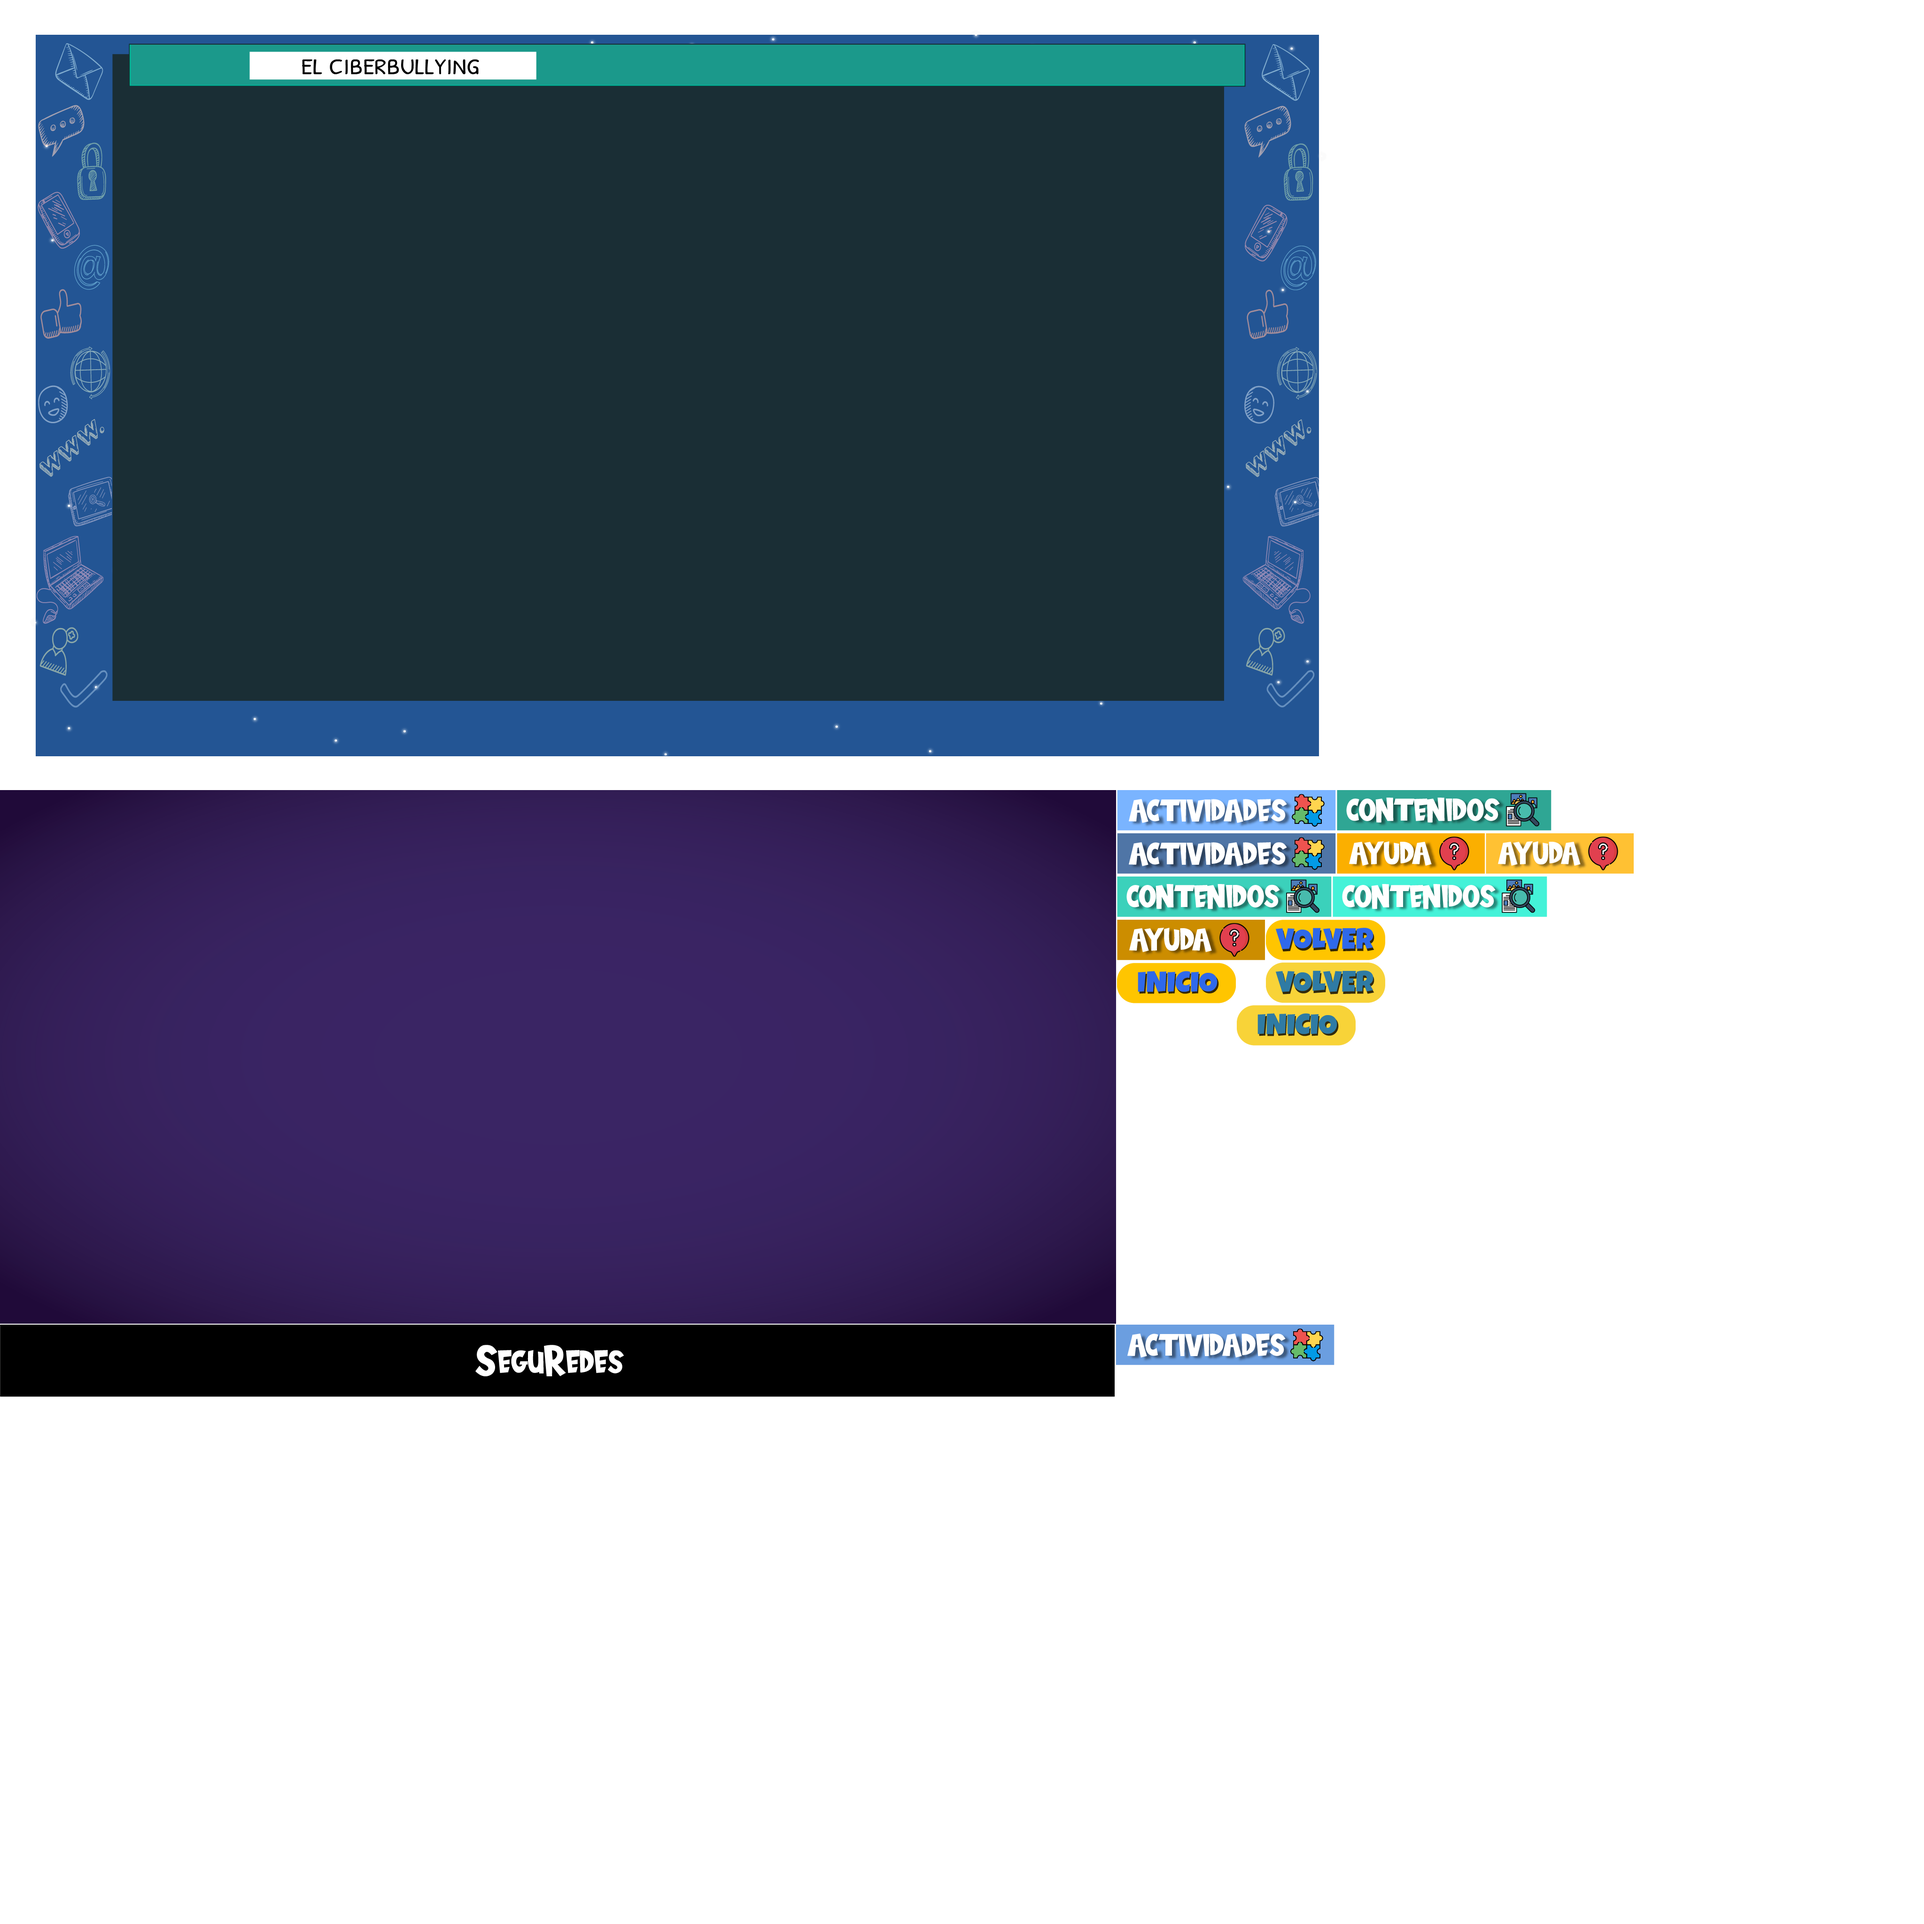
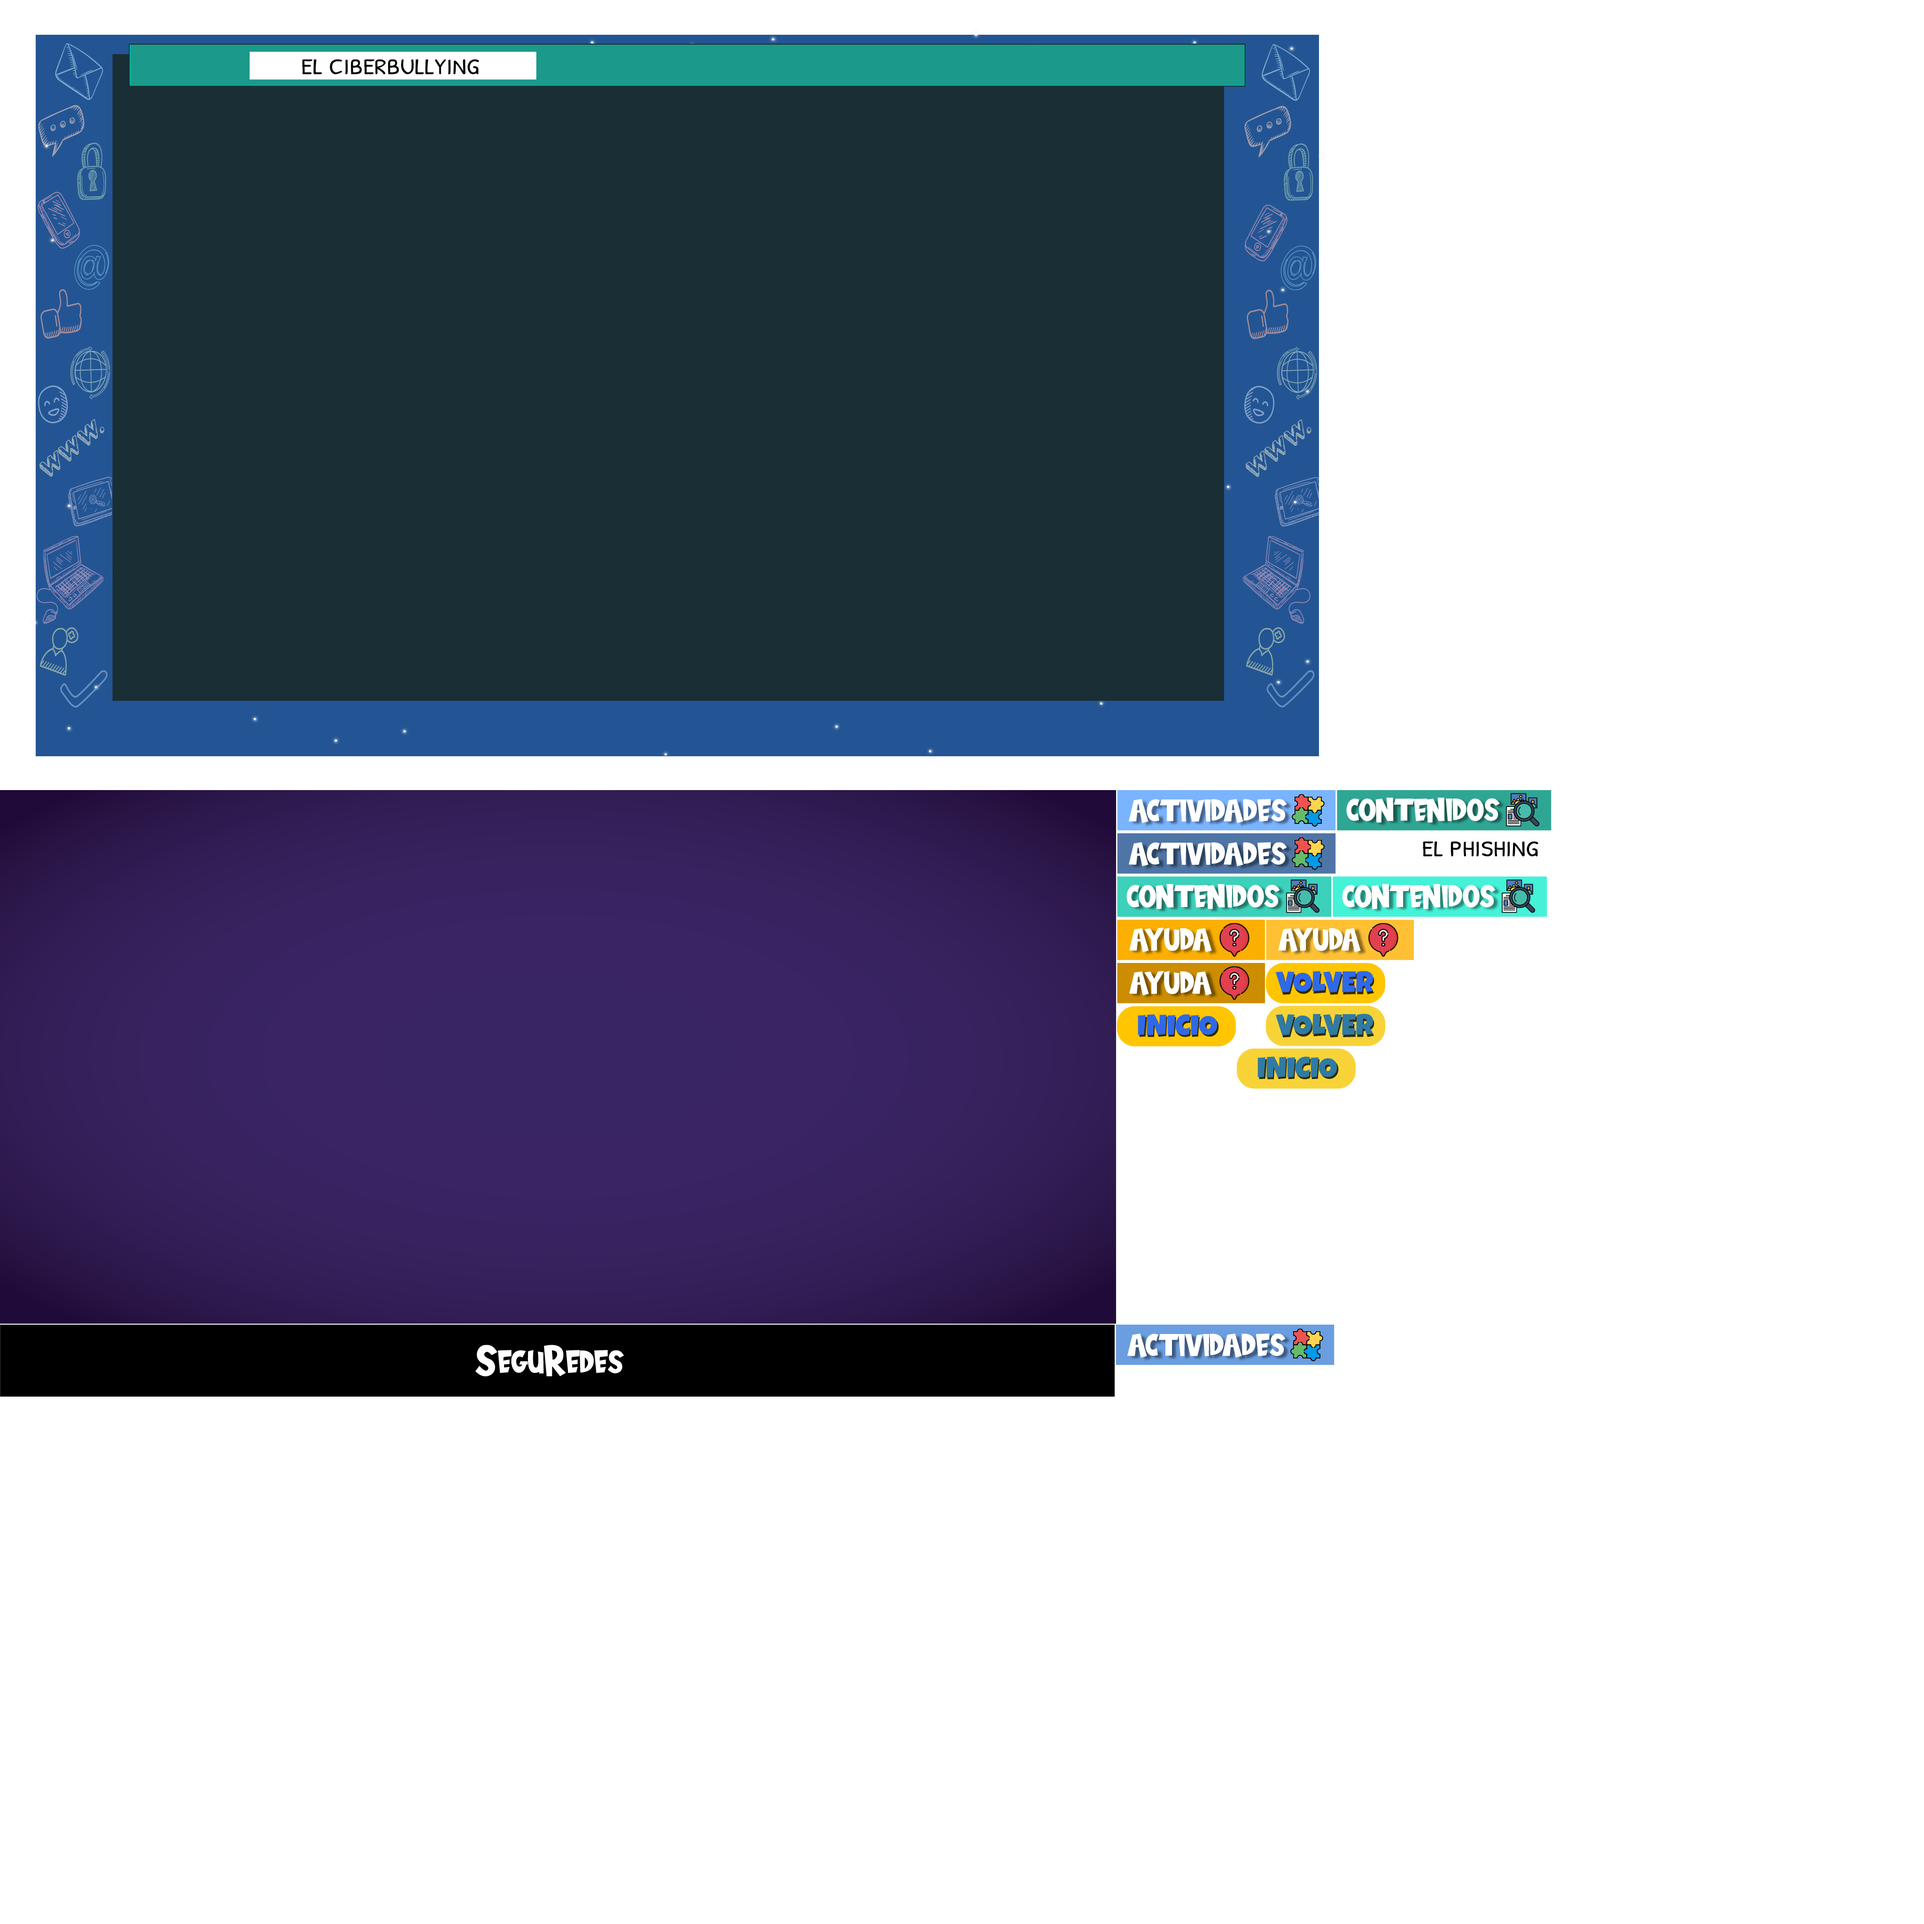
all

Changed region(s): [[0.5625, 0.4062, 0.8438, 0.5938]]

diff --git a/PantallaBienvenida/MenuPrincipal/Caperucita_ y_el_pishing/Actividades/index.js b/PantallaBienvenida/MenuPrincipal/Caperucita_ y_el_pishing/Actividades/index.js
@@ -3,7 +3,7 @@
 var p; // shortcut to reference prototypes
 var lib={};var ss={};var img={};
 lib.ssMetadata = [
-		{name:"index_atlas_1", frames: [[2375,2820,466,90],[2846,1774,315,90],[2378,1866,457,90],[2378,1682,466,90],[3163,1774,315,90],[2837,1866,457,90],[2378,1774,466,90],[2378,1958,315,90],[2846,1682,457,90],[0,2820,2373,154],[0,1682,2376,1136],[0,0,2888,1680],[2378,2050,253,89],[2633,2140,253,89],[2695,1958,254,89],[2695,2049,254,89]]}
+		{name:"index_atlas_1", frames: [[2375,2820,466,90],[2378,1958,315,90],[2378,1866,457,90],[2378,1682,466,90],[2695,1958,315,90],[2837,1866,457,90],[2378,1774,466,90],[2378,2050,315,90],[2846,1682,457,90],[0,2820,2373,154],[0,1682,2376,1136],[0,0,2888,1680],[2378,2142,253,89],[2633,2232,253,89],[2846,1774,611,64],[2695,2050,254,89],[2695,2141,254,89]]}
 ];
 
 
@@ -125,16 +125,23 @@ lib.ssMetadata = [
 
 
 
-(lib.volver2 = function() {
+(lib.tituloPhishingcontenido = function() {
 	this.initialize(ss["index_atlas_1"]);
 	this.gotoAndStop(14);
 }).prototype = p = new cjs.Sprite();
 
 
 
-(lib.Volver = function() {
+(lib.volver2 = function() {
 	this.initialize(ss["index_atlas_1"]);
 	this.gotoAndStop(15);
+}).prototype = p = new cjs.Sprite();
+
+
+
+(lib.Volver = function() {
+	this.initialize(ss["index_atlas_1"]);
+	this.gotoAndStop(16);
 }).prototype = p = new cjs.Sprite();
 
 
@@ -409,16 +416,19 @@ if (reversed == null) { reversed = false; }
 	this.timeline.addTween(cjs.Tween.get({}).to({state:[{t:this.btnContenidos},{t:this.btnActividades},{t:this.btnAyuda}]}).wait(1));
 
 	// fondo
-	this.instance = new lib.bannernegro();
-	this.instance.setTransform(101,622,0.5002,0.4991);
+	this.instance = new lib.tituloPhishingcontenido();
+	this.instance.setTransform(227,18,0.5,0.5);
 
-	this.instance_1 = new lib.fondopapel();
-	this.instance_1.setTransform(101,55,0.4996,0.5);
+	this.instance_1 = new lib.bannernegro();
+	this.instance_1.setTransform(101,622,0.5002,0.4991);
 
-	this.instance_2 = new lib.fondo11();
-	this.instance_2.setTransform(-38,-37,0.5,0.5);
+	this.instance_2 = new lib.fondopapel();
+	this.instance_2.setTransform(101,55,0.4996,0.5);
 
-	this.timeline.addTween(cjs.Tween.get({}).to({state:[{t:this.instance_2},{t:this.instance_1},{t:this.instance}]}).wait(1));
+	this.instance_3 = new lib.fondo11();
+	this.instance_3.setTransform(-38,-37,0.5,0.5);
+
+	this.timeline.addTween(cjs.Tween.get({}).to({state:[{t:this.instance_3},{t:this.instance_2},{t:this.instance_1},{t:this.instance}]}).wait(1));
 
 	this._renderFirstFrame();
 
@@ -433,7 +443,7 @@ lib.properties = {
 	color: "#235594",
 	opacity: 1.00,
 	manifest: [
-		{src:"images/index_atlas_1.png?1675538871579", id:"index_atlas_1"}
+		{src:"images/index_atlas_1.png?1675568797641", id:"index_atlas_1"}
 	],
 	preloads: []
 };

diff --git a/PantallaBienvenida/MenuPrincipal/Caperucita_ y_el_pishing/Actividades/index.html b/PantallaBienvenida/MenuPrincipal/Caperucita_ y_el_pishing/Actividades/index.html
@@ -25,7 +25,7 @@
   }
 </style>
 <script src="https://code.createjs.com/1.0.0/createjs.min.js"></script>
-<script src="index.js?1675538871661"></script>
+<script src="index.js?1675568797722"></script>
 <script>
 var canvas, stage, exportRoot, anim_container, dom_overlay_container, fnStartAnimation;
 function init() {
